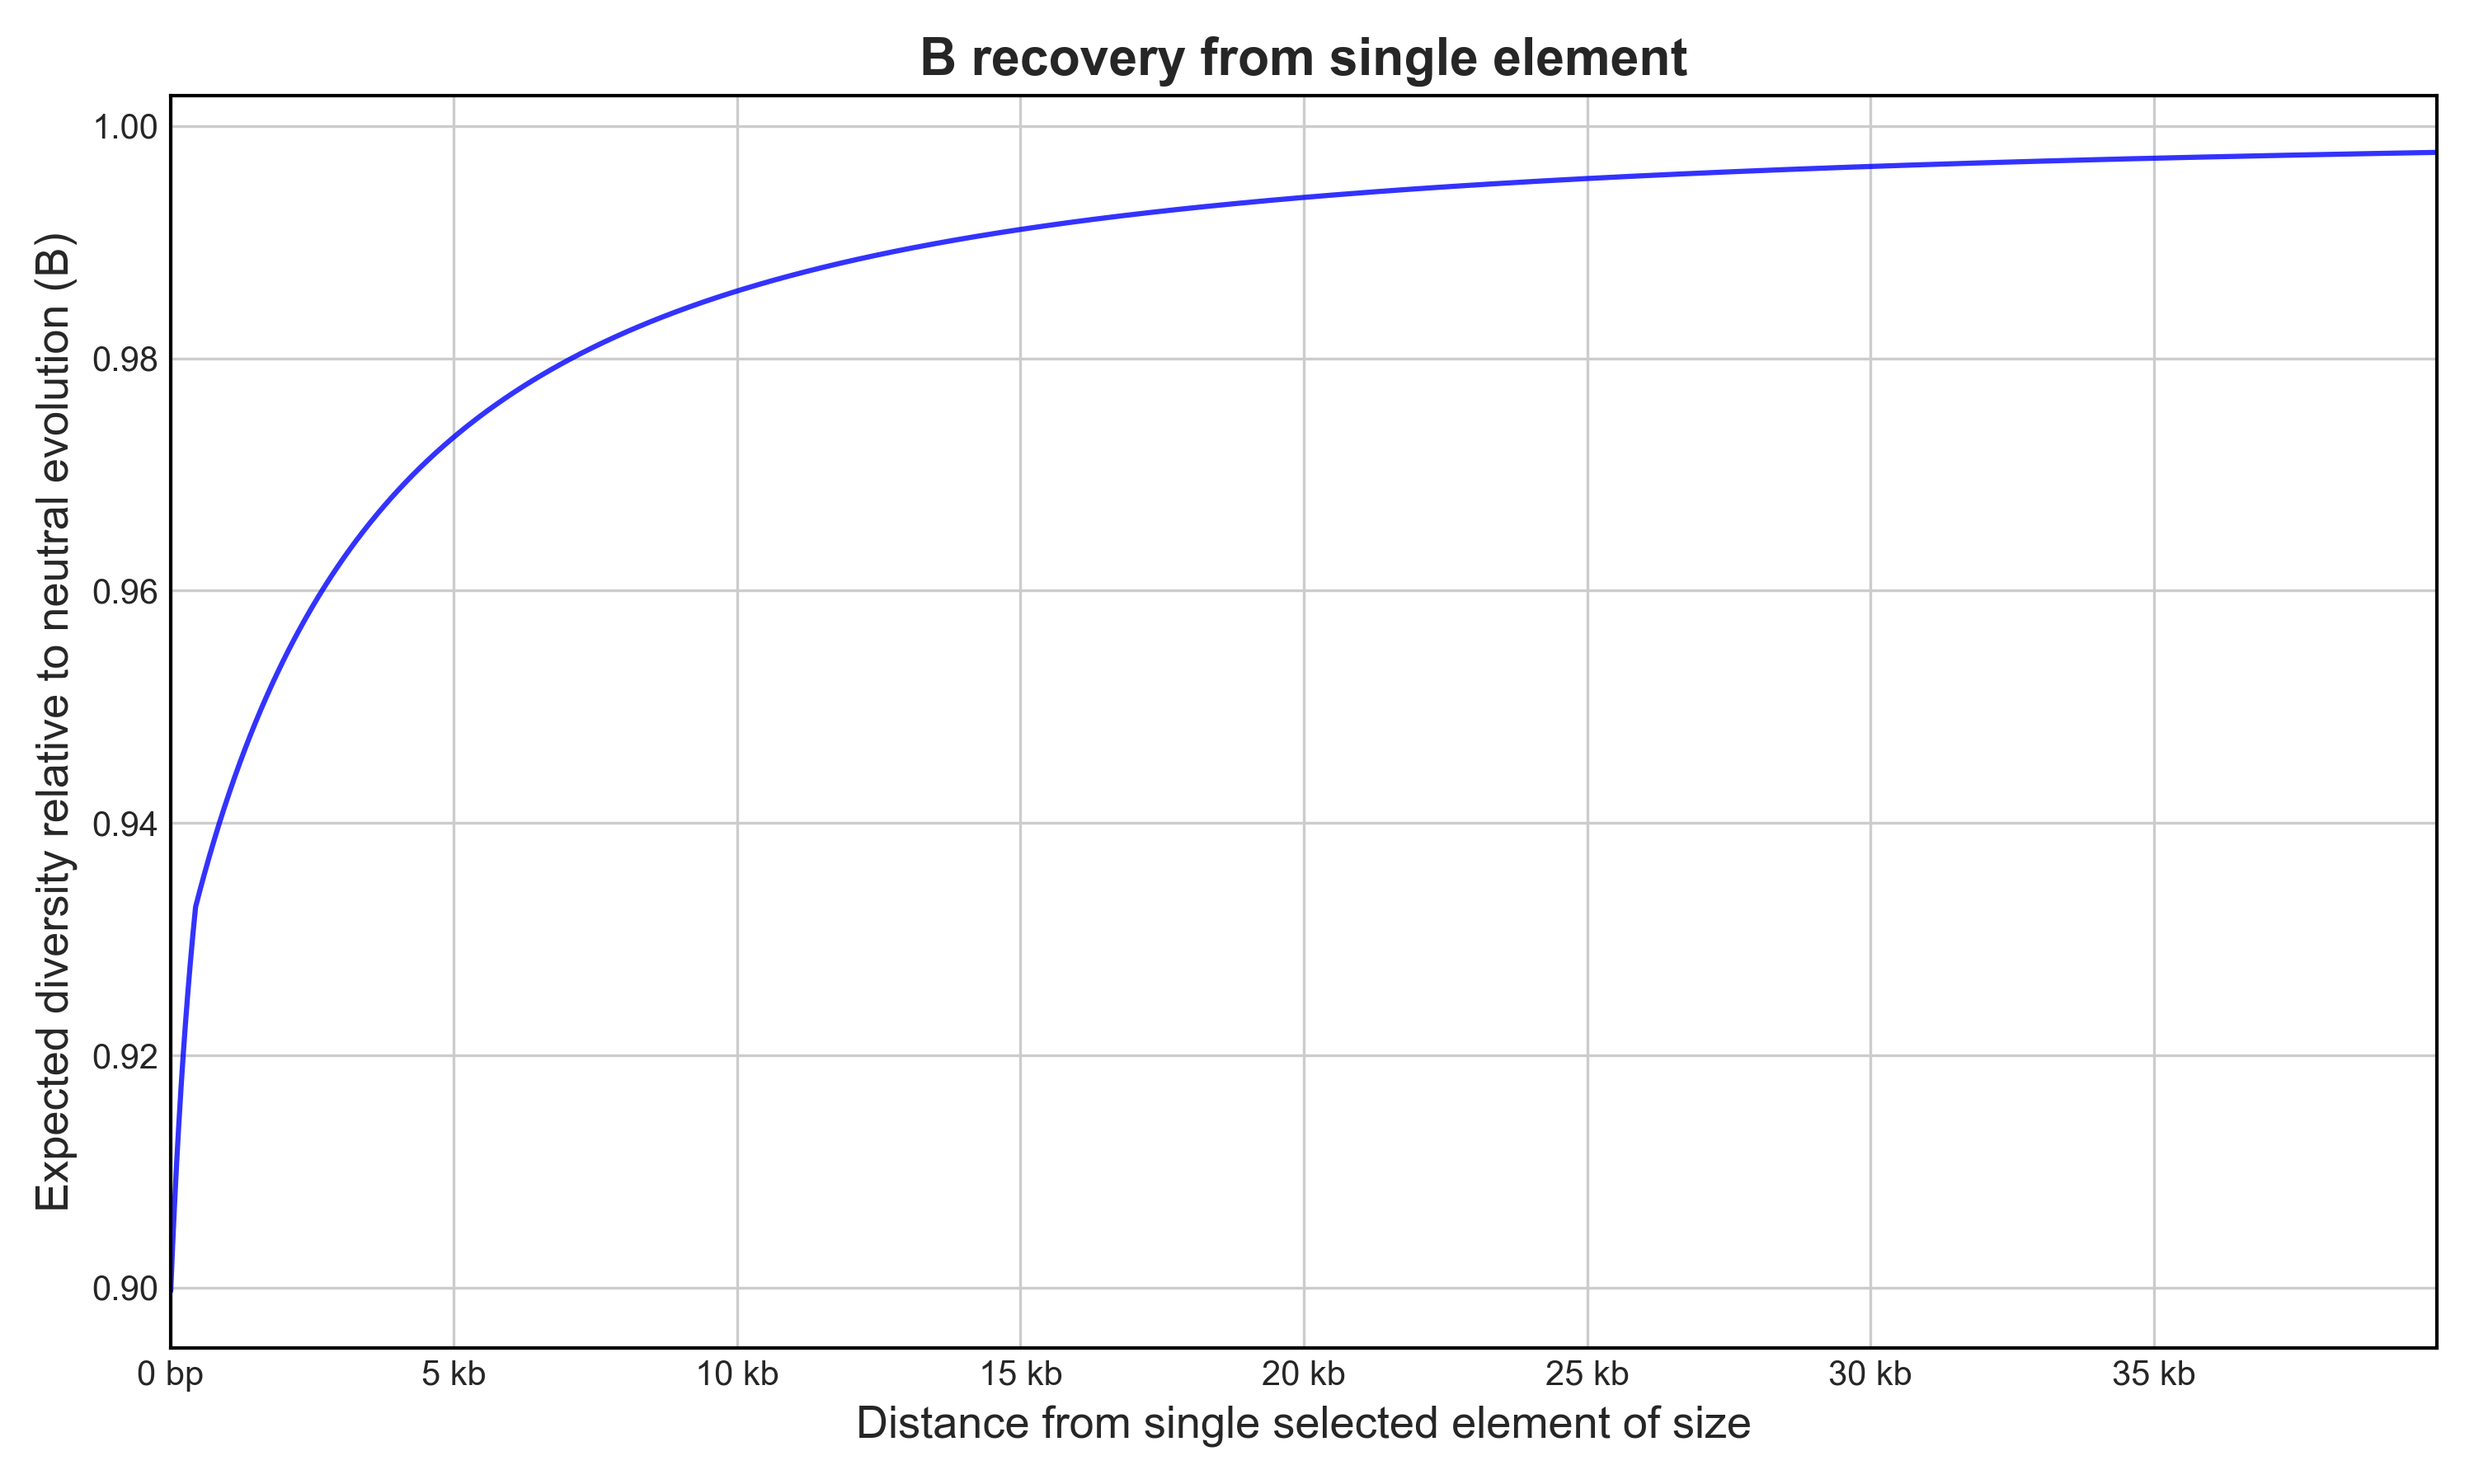
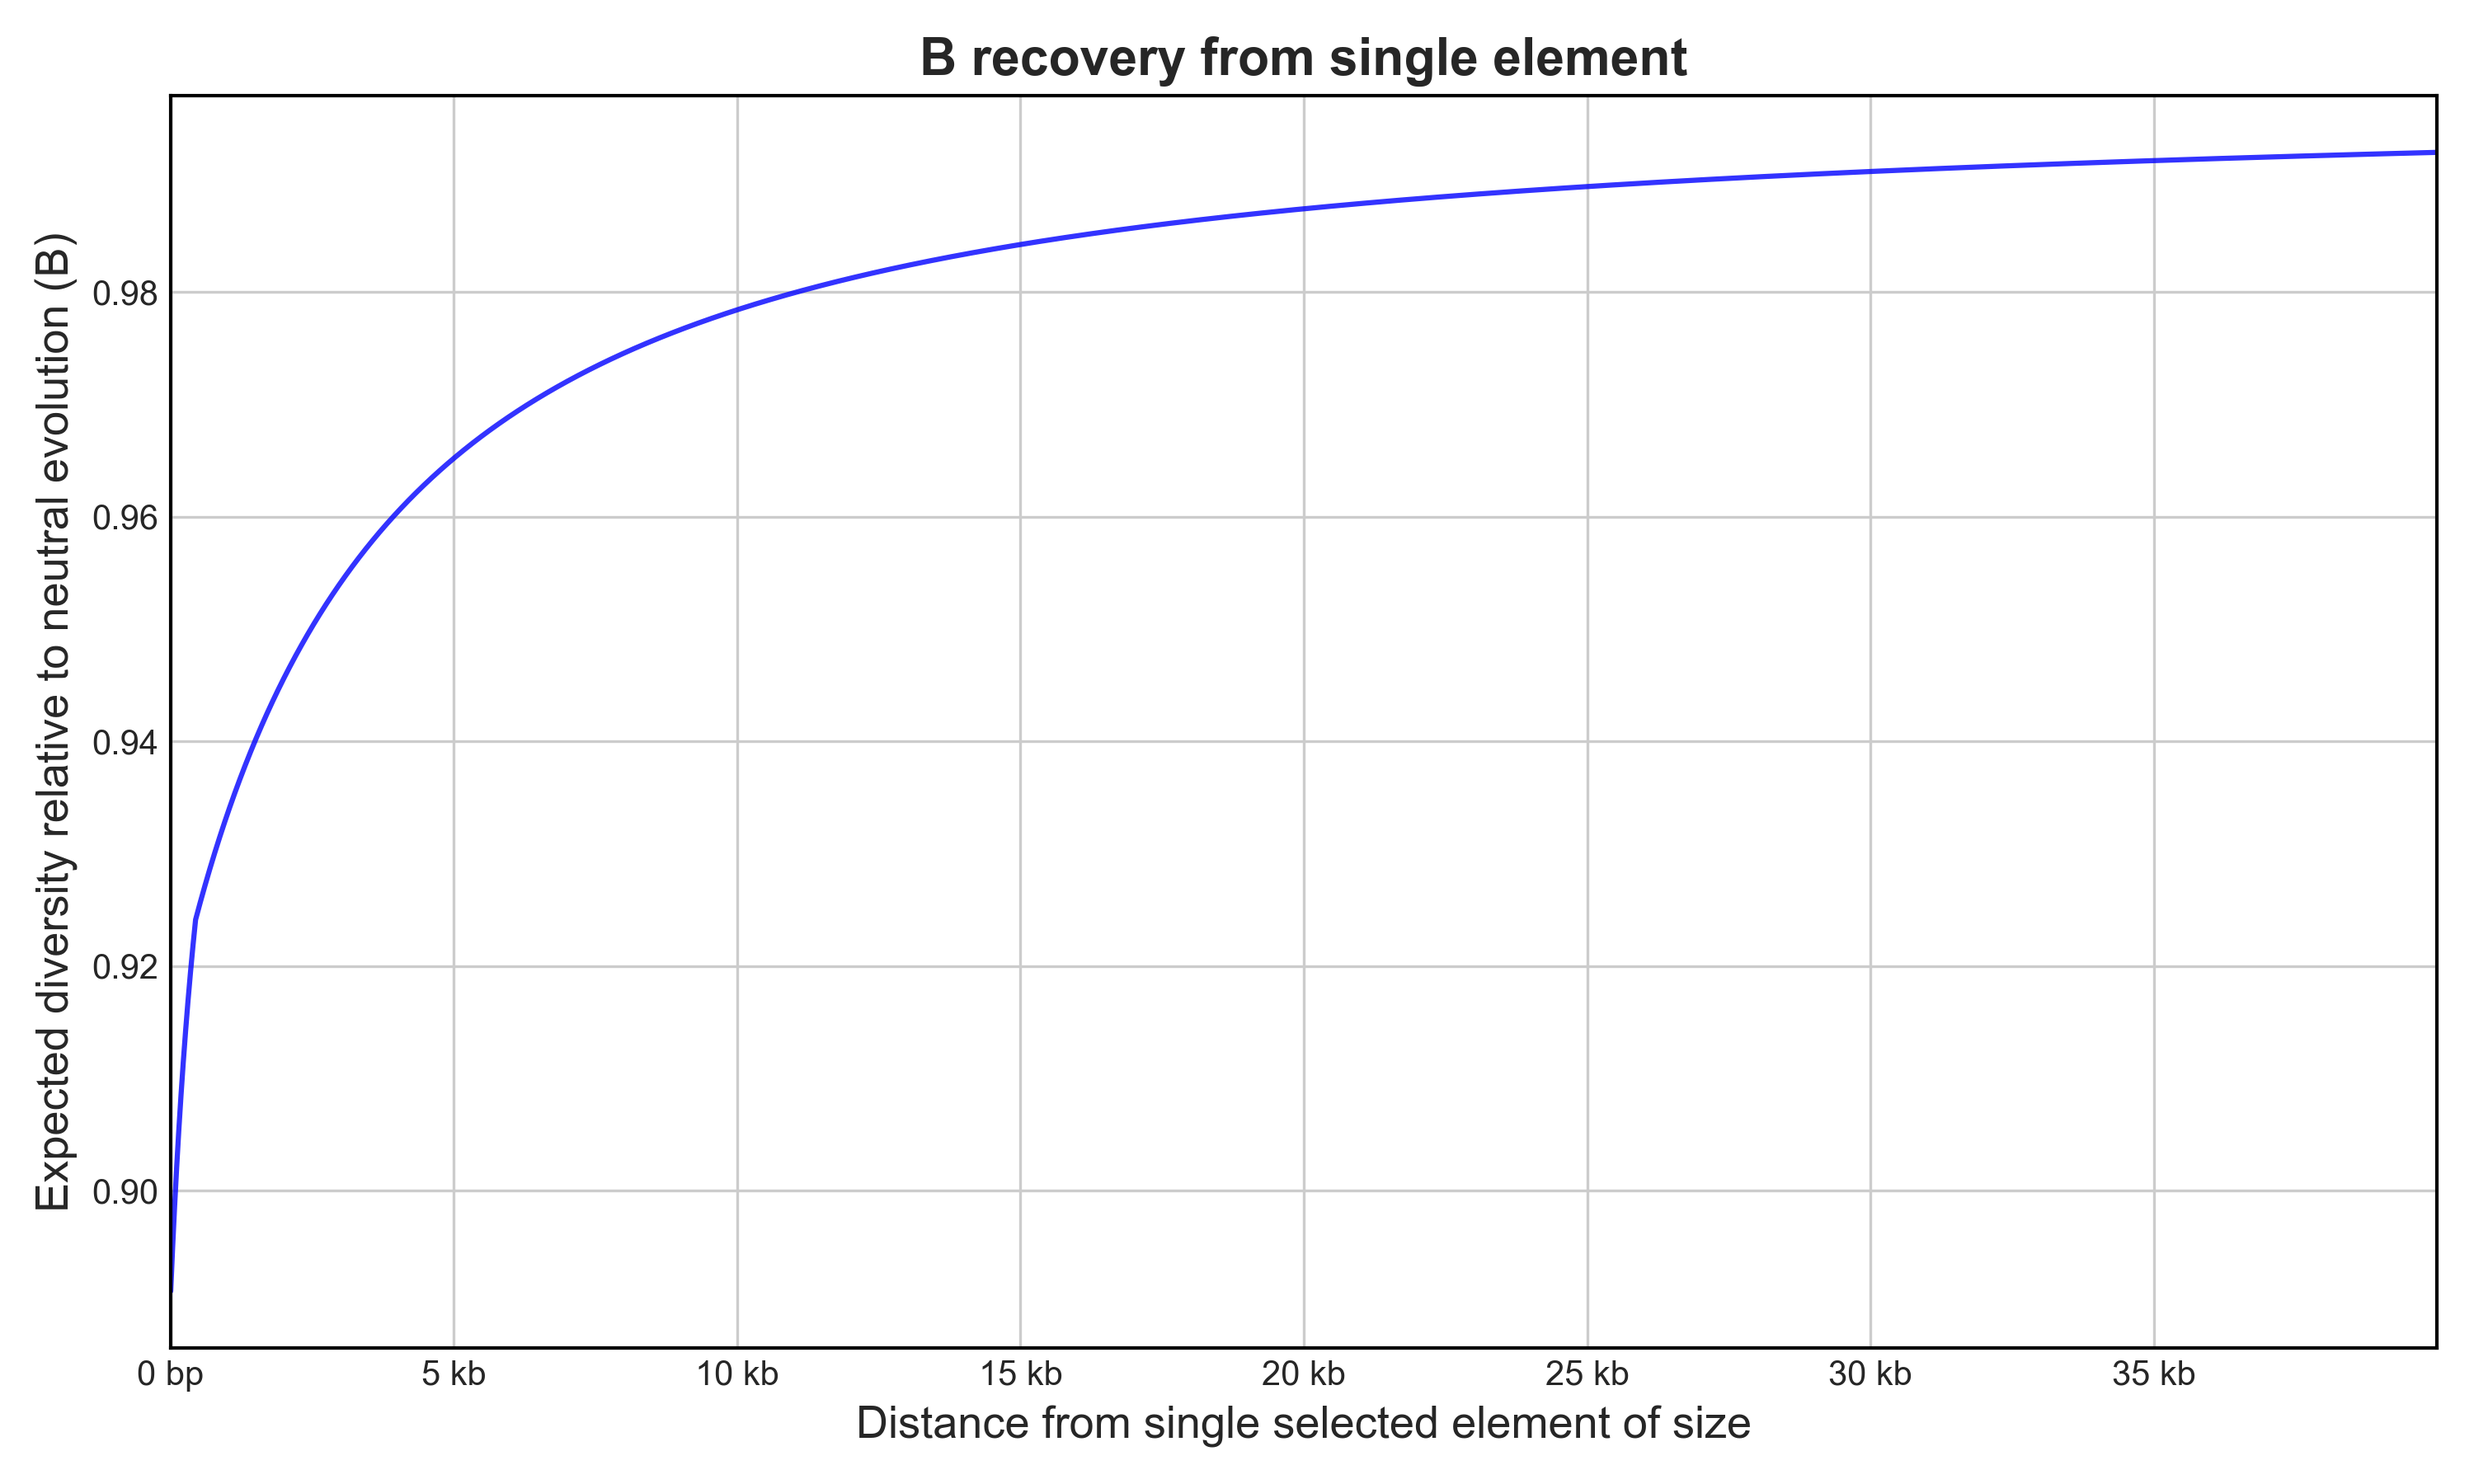
AI gen vignette, need to write up

diff --git a/DemogParams.py b/DemogParams.py
@@ -5,16 +5,16 @@
 ##        ./Bvalcalc --genome --pop_params ExampleParams.py
 
 ## Core parameters
-x = 1 # Scaling factor (N,u,r), keep as 1 unless calculating for rescaled simulations
+x = 100 # Scaling factor (N,u,r), keep as 1 unless calculating for rescaled simulations
 Nanc = 1e6/x # Ancestral population size
 r = 0.5*1e-8*x # Recombination (crossover) rate per bp, per generation
 u = 3*1e-9*x # Mutation rate (all types) per bp, per generation
-g = 1*1e-8*x # Gene conversion initiation rate per bp, per generation
+g = 0*1e-8*x # Gene conversion initiation rate per bp, per generation
 k = 440 # Gene conversion tract length (bp)
 
 ## Demography parameters
-Ncur = Nanc # Current population size (!Requires --pop_change)
-time_of_change = 1 # Time in 2Ncur generations ago that effective population size went from Nanc to Ncur (!Requires --pop_change)
+Ncur = Nanc*5 # Current population size (!Requires --pop_change)
+time_of_change = 0.1/5 # Time in 2Ncur generations ago that effective population size went from Nanc to Ncur (!Requires --pop_change)
 
 # Distribution of fitness effects (DFE) parameters (Must equal 1)
 f0 = 0.1 #(*Proportion of effectively neutral mutations with 0 <= |2Nes| < 1 *) 0.25

diff --git a/core/helpers/demography_helpers.py b/core/helpers/demography_helpers.py
@@ -13,4 +13,4 @@ for v in ['Nanc', 'Ncur', 'time_of_change']: globals()[v] = getattr(_pop, v)
 def get_Bcur(Banc):
     R = Nanc / Ncur
     return (Banc * (1 + (R - 1) * np.exp(-time_of_change / Banc))) / \
-           (1 + (R - 1) * np.exp(-time_of_change))
+           (1 + (R - 1) * np.exp(-time_of_change)) # Denominator

diff --git a/vignettes/cli_quickstart.md b/vignettes/cli_quickstart.md
@@ -1,0 +1,11 @@
+# 🔧 Bvalcalc CLI Quickstart
+
+Welcome to **Bvalcalc**, your command-line companion for calculating B-values! This quickstart guide will show you how to get up and running in just a few steps.
+
+## 📦 Installation
+
+You can install Bvalcalc via pip:
+
+```bash
+pip install bvalcalc
+```
